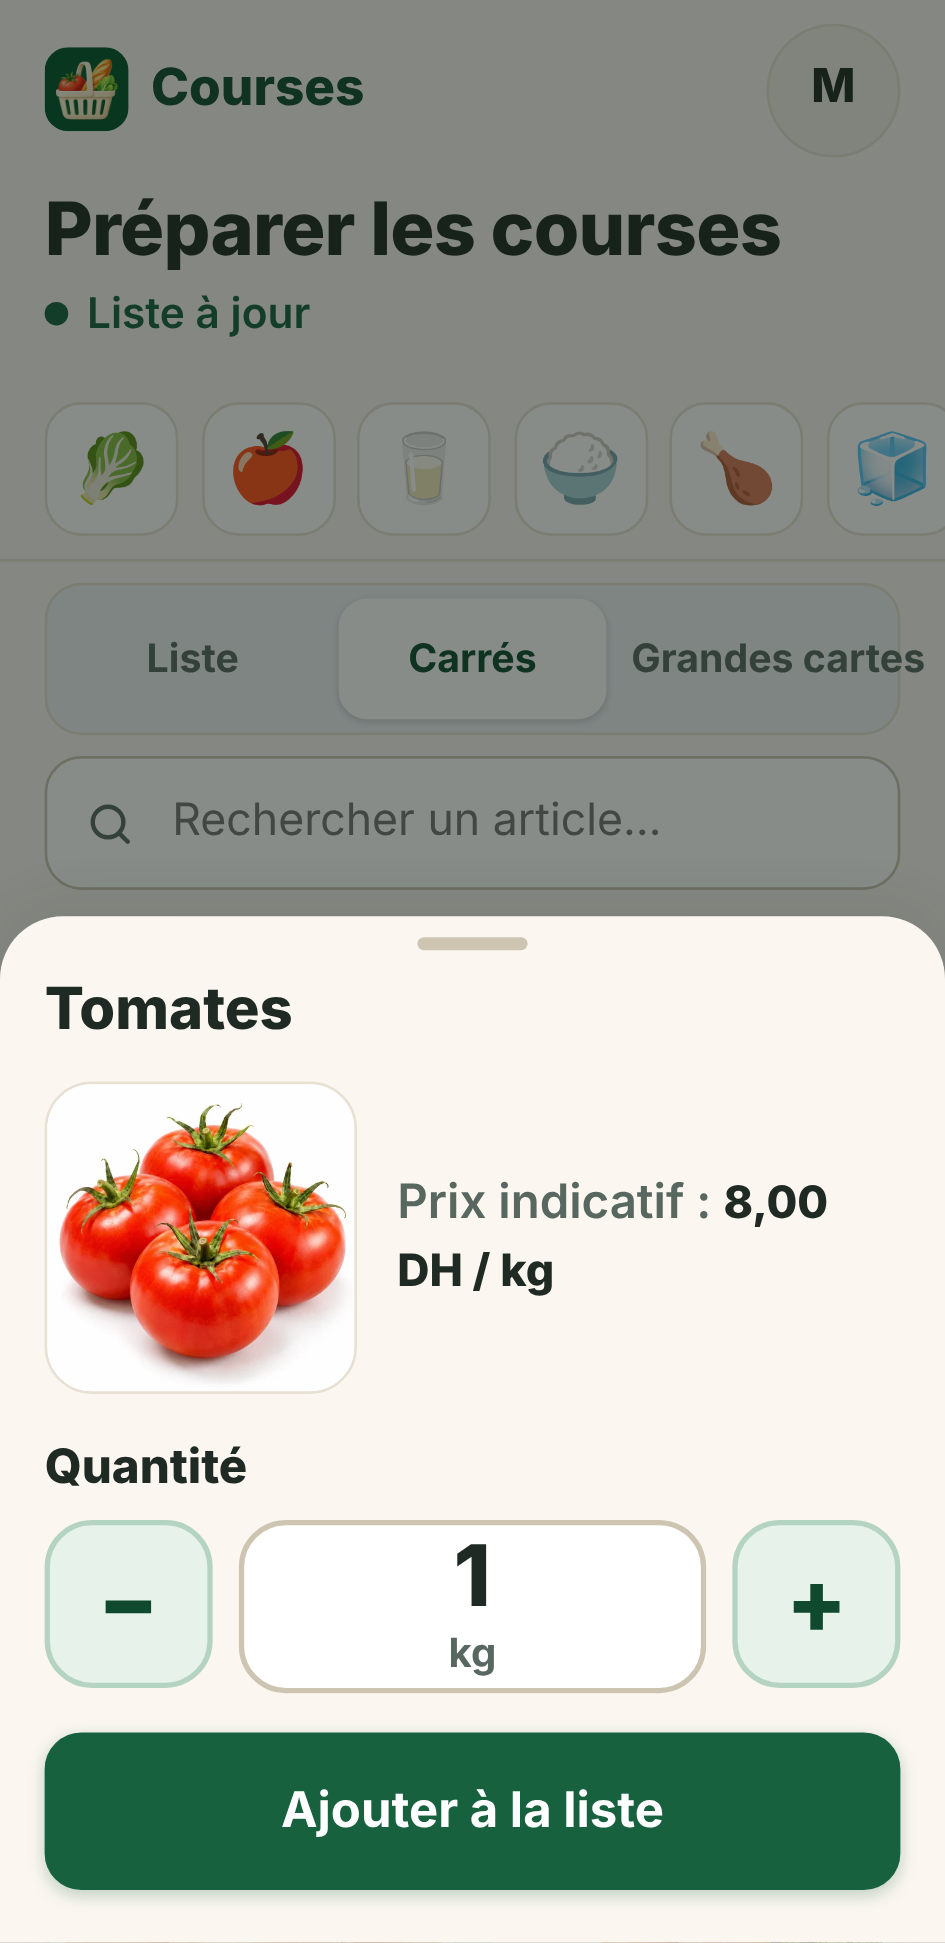
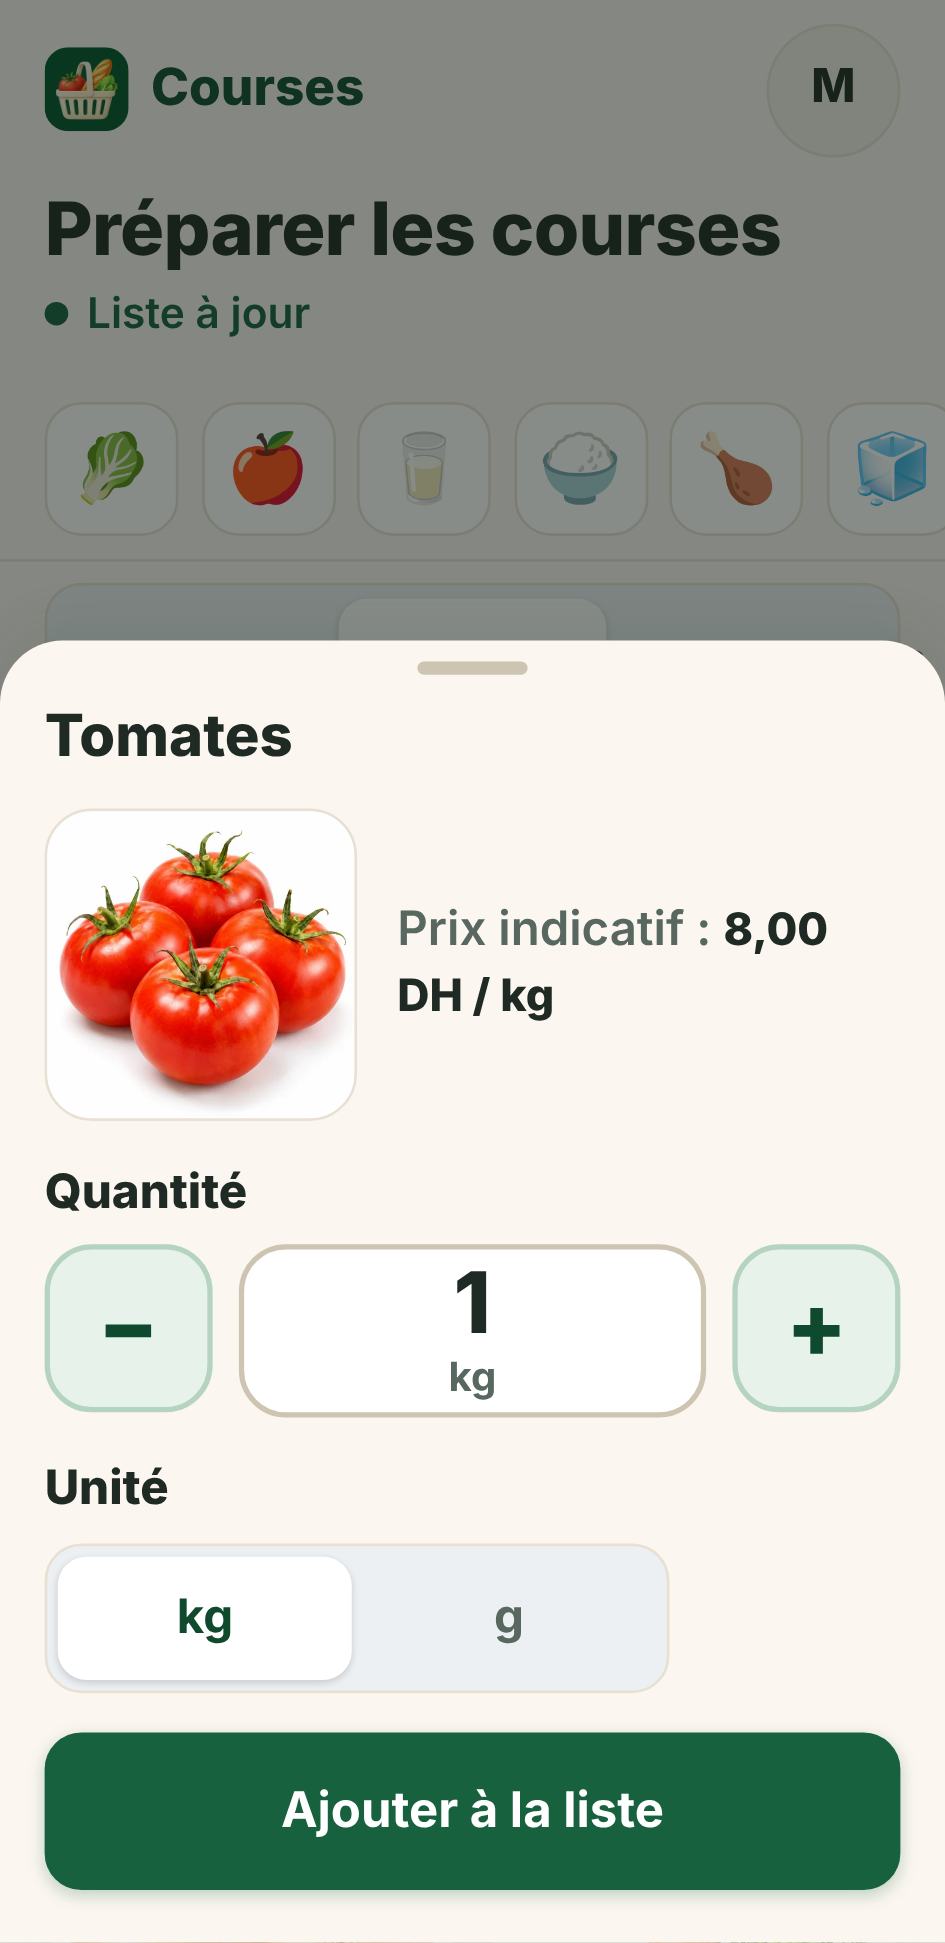
V3 : unités kg/g et L/ml à conversion exacte ; recette sur téléphone avec APK de recette dédiée (identifiant distinct, reliée à l'environnement d'essai)
Claude-Session: https://claude.ai/code/session_01FECw7ZbTKUbi6W7escaKrV

diff --git a/web/src/components/v3/QuantitySheet.tsx b/web/src/components/v3/QuantitySheet.tsx
@@ -25,7 +25,7 @@ interface Props {
   prefs: Prefs;
   emoji?: string;
   onClose(): void;
-  /** Ajoute l'article avec cette quantité (ou met à jour la quantité d'un article déjà choisi). */
+  /** Ajoute l'article avec cette quantité, exprimée dans l'unité DU PRODUIT (ou met à jour un article déjà choisi). */
   onConfirm(qty: number): void;
   onRemove(): void;
   onAgain(): void;
@@ -36,27 +36,68 @@ interface Props {
  * le choix en cours (comme la carte de la V2 : rien n'est envoyé avant « Valider »). L'unité est celle du produit. Le prix est le prix
  * indicatif UNITAIRE, jamais un total par article.
  */
+/** Petite unité de saisie d'un produit au poids (g) ou au volume (ml) ; aucune pour les unités comptées. */
+const SMALL: Partial<Record<Unit, { label: string; plural: string }>> = { kg: { label: "g", plural: "grammes" }, litre: { label: "ml", plural: "millilitres" } };
+const BASE_CHIP: Partial<Record<Unit, string>> = { kg: "kg", litre: "L" };
+
+/**
+ * V3 : panneau inférieur de quantité. La quantité se règle ici (−, +, ou saisie directe) puis « Ajouter à la liste » l'enregistre dans
+ * le choix en cours (comme la carte de la V2 : rien n'est envoyé avant « Valider »). L'unité est celle du produit ; pour un produit au
+ * poids on peut saisir en g (kg ↔ g, ×1000) et pour un volume en ml (L ↔ ml) : la conversion est exacte et la quantité reste stockée
+ * dans l'unité du produit (0,25 kg), donc identique pour la V2. Jamais « pièce » pour un produit au kilo. Le prix est le prix indicatif
+ * UNITAIRE, jamais un total par article.
+ */
 export function QuantitySheet({ product, state, qty, bought, price, prefs, emoji, onClose, onConfirm, onRemove, onAgain }: Props) {
   const selected = state === "saved" || state === "unsaved";
   const unit = product.unit;
-  const [draft, setDraft] = useState(qty ?? 1);
-  const [text, setText] = useState(String(qty ?? 1).replace(".", ","));
+  const small = SMALL[unit];
+  const [draft, setDraft] = useState(qty ?? 1); // toujours dans l'unité du produit
+  const [inSmall, setInSmall] = useState(false); // saisie en g / ml
+  const shownOf = (d: number, sm: boolean) => (sm ? String(Math.round(d * 1000)) : String(d).replace(".", ","));
+  const [text, setText] = useState(shownOf(qty ?? 1, false));
+  const [problem, setProblem] = useState<string | null>(null);
   const [broken, setBroken] = useState(false);
   const fine = prefs.showTotals;
-  const set = (q: number) => {
+  const set = (q: number, sm = inSmall) => {
     setDraft(q);
-    setText(String(q).replace(".", ","));
+    setText(shownOf(q, sm));
+    setProblem(null);
   };
-  useEffect(() => setText(String(draft).replace(".", ",")), [draft]);
-  const minus = stepQty(draft, unit, -1, fine);
-  const plus = stepQty(draft, unit, 1, fine);
-  const commit = () => {
-    const n = Number(text.replace(",", ".").trim());
-    if (!text.trim() || !Number.isFinite(n)) return setText(String(draft).replace(".", ","));
-    set(clampQty(n, unit));
+  const MIN_SMALL = 10; // g ou ml
+  const smallStep = fine ? 50 : 100;
+  const milli = Math.round(draft * 1000);
+  const minus = inSmall ? (milli - smallStep >= MIN_SMALL ? (milli - smallStep) / 1000 : null) : stepQty(draft, unit, -1, fine);
+  const plus = inSmall ? (milli + smallStep <= 999000 ? (milli + smallStep) / 1000 : null) : stepQty(draft, unit, 1, fine);
+  const commit = (): number | null => {
+    const raw = text.trim();
+    const n = Number(raw.replace(",", "."));
+    if (!raw || !Number.isFinite(n)) {
+      setText(shownOf(draft, inSmall));
+      setProblem(null);
+      return draft; // saisie illisible : retour à la valeur en cours
+    }
+    if (inSmall) {
+      if (!Number.isInteger(n) || n < MIN_SMALL || n > 999000) {
+        setProblem(`Entrez un nombre entier de ${small!.plural}, au moins ${MIN_SMALL}.`);
+        return null;
+      }
+      set(n / 1000);
+      return n / 1000;
+    }
+    const q = clampQty(n, unit);
+    set(q);
+    return q;
   };
-  const noteUnit = unit === "kg" ? "kilogrammes" : unitPlural(unit);
-  const label = (draft > 1 && unit !== "kg") || (unit === "litre" && draft >= 2) ? unitPlural(unit) : unitLabel(unit);
+  const chooseSmall = (sm: boolean) => {
+    if (sm === inSmall) return;
+    const v = commit();
+    if (v === null) return; // une saisie invalide empêche de changer d'unité : rien n'est converti à tort
+    setInSmall(sm);
+    setText(shownOf(v, sm));
+    setProblem(null);
+  };
+  const shownUnit = inSmall ? small!.label : (draft > 1 && unit !== "kg") || (unit === "litre" && draft >= 2) ? unitPlural(unit) : unitLabel(unit);
+  const noteUnit = inSmall ? small!.plural : unit === "kg" ? "kilogrammes" : unitPlural(unit);
   return (
     <Dialog title={product.name} onClose={onClose}>
       <div className="v3sheet" data-testid="qty-sheet">
@@ -83,27 +124,38 @@ export function QuantitySheet({ product, state, qty, bought, price, prefs, emoji
                 <button type="button" className="v3qty__btn" aria-label={`Diminuer la quantité de ${product.name}`} disabled={minus === null} data-testid="sheet-minus" onClick={() => minus !== null && set(minus)}>−</button>
                 <span className="v3qty__val">
                   <input
-                    inputMode={isFractional(unit) ? "decimal" : "numeric"}
+                    inputMode={inSmall ? "numeric" : isFractional(unit) ? "decimal" : "numeric"}
                     aria-label={`Quantité de ${product.name}, en ${noteUnit}`}
+                    aria-invalid={problem ? true : undefined}
                     data-testid="sheet-input"
                     value={text}
                     onFocus={(e) => e.currentTarget.select()}
-                    onChange={(e) => setText(e.target.value)}
-                    onBlur={commit}
+                    onChange={(e) => { setText(e.target.value); setProblem(null); }}
+                    onBlur={() => void commit()}
                     onKeyDown={(e) => e.key === "Enter" && (e.currentTarget.blur(), e.preventDefault())}
                   />
-                  <small data-testid="sheet-unit">{label}</small>
+                  <small data-testid="sheet-unit">{shownUnit}</small>
                 </span>
                 <button type="button" className="v3qty__btn" aria-label={`Augmenter la quantité de ${product.name}`} disabled={plus === null} data-testid="sheet-plus" onClick={() => plus !== null && set(plus)}>+</button>
               </div>
+              {problem && <small className="error" role="alert" data-testid="sheet-problem">{problem}</small>}
             </div>
+            {small && (
+              <div className="v3units" role="group" aria-label="Unité de saisie">
+                <span className="v3qty__label">Unité</span>
+                <div className="seg v3units__seg">
+                  <button type="button" className={!inSmall ? "on" : ""} aria-pressed={!inSmall} data-testid="sheet-unit-base" onClick={() => chooseSmall(false)}>{BASE_CHIP[unit]}</button>
+                  <button type="button" className={inSmall ? "on" : ""} aria-pressed={inSmall} data-testid="sheet-unit-small" onClick={() => chooseSmall(true)}>{small.label}</button>
+                </div>
+              </div>
+            )}
             <button
               className="btn btn--primary btn--big"
               data-testid="sheet-confirm"
-              disabled={selected && draft === qty}
+              disabled={!!problem || (selected && Math.round(draft * 1000) === Math.round((qty ?? 0) * 1000))}
               onClick={() => {
-                const n = Number(text.replace(",", ".").trim());
-                onConfirm(Number.isFinite(n) && text.trim() ? clampQty(n, unit) : draft); // une saisie encore non validée est prise en compte
+                const v = commit(); // une saisie encore non validée est prise en compte (ou refusée avec son message)
+                if (v !== null) onConfirm(v);
               }}
             >
               {selected ? "Mettre à jour la quantité" : "Ajouter à la liste"}

diff --git a/e2e/tests/v3-selection.spec.ts b/e2e/tests/v3-selection.spec.ts
@@ -62,6 +62,13 @@ test("activation V3 : désactivée par défaut, réservée à l'administrateur p
   // le personnel de cet appareil voit la V3 (test sur le téléphone de l'administrateur) ; coupure immédiate
   await uiLogin(page, f);
   await expect(page.getByTestId("v3-selection")).toBeVisible();
+  // le personnel ne peut pas activer l'aperçu : ni réglage ni option dans son profil (seul l'administrateur principal le peut)
+  await page.getByTestId("avatar").click();
+  await expect(page.getByRole("dialog", { name: "Mon profil" })).toBeVisible();
+  await expect(page.getByTestId("v3-toggle")).toHaveCount(0);
+  await expect(page.getByText("Aperçu V3")).toHaveCount(0);
+  await page.getByRole("dialog", { name: "Mon profil" }).getByRole("button", { name: "Fermer" }).click();
+  await expect(page.getByTestId("tab-settings")).toHaveCount(0);
   await page.getByTestId("v3-to-v2").click();
   await expect(page.getByTestId("v3-selection")).toHaveCount(0);
   await expect(page.getByTestId("view-all")).toBeVisible(); // V2 intacte
@@ -215,6 +222,73 @@ for (const s of SIZES) {
       await expect(tom).toHaveAttribute("data-state", "unsaved");
       expect(await noOverflow(page)).toBe(true);
       await ctx.close();
+    });
+
+    test("unités : kg/g et L/ml avec conversion exacte ; jamais « pièce » pour un produit au kilo ; compatible V2", async ({ browser, playwright, baseURL }) => {
+      const f = await newFamily(playwright, baseURL!);
+      await openList(f);
+      const cat = Object.fromEntries((await (await f.adil.get("/api/catalog")).json()).categories.flatMap((c: any) => c.products).map((p: any) => [p.name, p]));
+      const litre = "Huile d'essai";
+      expect((await f.adil.post("/api/products", { data: { name: litre, category: "epicerie", unit: "litre" } })).status()).toBe(201);
+      f.products[litre] = (await (await f.adil.get("/api/catalog")).json()).categories.flatMap((c: any) => c.products).find((p: any) => p.name === litre).id;
+      const counted = Object.keys(cat).find((n) => ["piece", "paquet", "bouteille", "brique", "pot", "boite"].includes(cat[n].unit))!;
+      const { ctx, page } = await phone(browser, baseURL, s, true);
+      await uiLogin(page, f);
+      const tom = page.getByTestId(`v3-${f.products["Tomates"]}`);
+      await tom.click();
+      // l'unité du produit par défaut ; kg et g seulement (pas de « pièce »)
+      await expect(page.getByTestId("sheet-unit-base")).toHaveText("kg");
+      await expect(page.getByTestId("sheet-unit-small")).toHaveText("g");
+      await expect(page.getByRole("dialog")).not.toContainText(/pièce/i);
+      await page.screenshot({ path: `${OUT}/panneau-unites-${s.name}.png` });
+      await page.getByTestId("sheet-unit-small").click();
+      await expect(page.getByTestId("sheet-input")).toHaveValue("1000"); // 1 kg = 1000 g
+      await expect(page.getByTestId("sheet-unit")).toHaveText("g");
+      await page.getByTestId("sheet-plus").click();
+      await expect(page.getByTestId("sheet-input")).toHaveValue("1100");
+      await page.getByTestId("sheet-input").fill("250");
+      await page.getByTestId("sheet-input").blur();
+      await page.getByTestId("sheet-unit-base").click();
+      await expect(page.getByTestId("sheet-input")).toHaveValue("0,25"); // 250 g = 0,25 kg
+      await expect(page.getByTestId("sheet-unit")).toHaveText("kg");
+      // saisie invalide en g : message, rien n'est converti ni enregistré
+      await page.getByTestId("sheet-unit-small").click();
+      await page.getByTestId("sheet-input").fill("12,5");
+      await page.getByTestId("sheet-input").blur();
+      await expect(page.getByTestId("sheet-problem")).toContainText("nombre entier de grammes");
+      await expect(page.getByTestId("sheet-confirm")).toBeDisabled();
+      await page.getByTestId("sheet-unit-base").click(); // changer d'unité ne convertit pas une saisie invalide
+      await expect(page.getByTestId("sheet-unit-small")).toHaveAttribute("aria-pressed", "true");
+      await page.getByTestId("sheet-input").fill("125"); // 125 g : exactement 0,125 kg (3 décimales gardées par le serveur)
+      await page.getByTestId("sheet-input").blur();
+      await expect(page.getByTestId("sheet-problem")).toHaveCount(0);
+      await page.screenshot({ path: `${OUT}/panneau-grammes-${s.name}.png` });
+      await page.getByTestId("sheet-confirm").click();
+      await expect(page.getByTestId(`v3qty-${f.products["Tomates"]}`)).toContainText("0,125 kg");
+      await page.getByTestId("validate").click();
+      await expect.poll(async () => ((await activeList(f)).items as any[]).map((i) => Number(i.quantity))).toEqual([0.125]);
+      expect(((await activeList(f)).items[0]).unit).toBe("kg"); // stocké dans l'unité du produit
+      // la V2 lit la même quantité
+      await page.getByTestId("v3-to-v2").click();
+      await expect(page.getByTestId(`qty-input-${f.products["Tomates"]}`)).toHaveValue("0,125");
+      await ctx.close();
+      // volume : L / ml ; unités comptées : aucune petite unité
+      const c2 = await phone(browser, baseURL, s, true);
+      await uiLogin(c2.page, f);
+      await c2.page.getByTestId(`v3-${f.products[litre]}`).click();
+      await expect(c2.page.getByTestId("sheet-unit-base")).toHaveText("L");
+      await expect(c2.page.getByTestId("sheet-unit-small")).toHaveText("ml");
+      await c2.page.getByTestId("sheet-unit-small").click();
+      await c2.page.getByTestId("sheet-input").fill("750");
+      await c2.page.getByTestId("sheet-input").blur();
+      await c2.page.getByTestId("sheet-unit-base").click();
+      await expect(c2.page.getByTestId("sheet-input")).toHaveValue("0,75");
+      await c2.page.getByTestId("sheet-confirm").click();
+      await expect(c2.page.getByTestId(`v3qty-${f.products[litre]}`)).toContainText("0,75");
+      await c2.page.getByTestId(`v3-${f.products[counted]}`).click();
+      await expect(c2.page.getByTestId("sheet-unit-small")).toHaveCount(0);
+      await expect(c2.page.getByTestId("sheet-unit-base")).toHaveCount(0);
+      await c2.ctx.close();
     });
 
     test("unités adaptées au produit et sans liste en cours", async ({ browser, playwright, baseURL }) => {

diff --git a/web/src/sync/engine.ts b/web/src/sync/engine.ts
@@ -1,7 +1,7 @@
 import { api as realApi, ApiError, NetworkError } from "../api";
 import { AppDbClass, type AppDb, type OrphanRow } from "../db";
 import type { Batch, Catalog, ListView, Me, Op, OpResult, Toggles } from "../types";
-import { clampQty, fmtQty } from "../units";
+import { clampQty, clampQtyFine, fmtQty } from "../units";
 import { buildOps, cancelQueuedAdd, editQueuedAdd, interpretResults, isPurchased, normalizeToggles, openItem, planBasket, projectedPresence, requestAgainToggle, setQuantityToggle, toggleProduct } from "./logic";
 import type { BasketItem, BasketMode, BasketReport } from "./logic";
 
@@ -615,10 +615,10 @@ export class Engine {
   }
 
   /** Sets the wanted quantity of a selected product. Never adds a second line; never touches other articles. */
-  async setQuantity(productId: string, wanted: number): Promise<void> {
+  async setQuantity(productId: string, wanted: number, exact = false): Promise<void> {
     const { list, batches, toggles } = this.s;
     if (!list || list.status !== "active") return;
-    const qty = clampQty(wanted, this.unitFor(productId));
+    const qty = exact ? clampQtyFine(wanted, this.unitFor(productId)) : clampQty(wanted, this.unitFor(productId));
     const present = projectedPresence(list, batches, productId);
     if (!(toggles[productId]?.want ?? present)) return; // the counter only exists on a selected card
     if (present && !openItem(list, productId) && !toggles[productId]) {

diff --git a/web/src/units.ts b/web/src/units.ts
@@ -25,6 +25,16 @@ export function clampQty(q: number, unit: Unit): number {
   return Math.min(MAX_QTY, Math.max(minOf(unit), v));
 }
 
+/**
+ * V3, saisie en grammes ou en millilitres : conversion EXACTE vers le kilo ou le litre (le serveur garde 3 décimales : 125 g = 0,125 kg).
+ * Mêmes limites que clampQty pour les unités comptées ; pour le poids et le volume, au plus 3 décimales et au moins 10 g (10 ml).
+ */
+export function clampQtyFine(q: number, unit: Unit): number {
+  if (!isFractional(unit)) return clampQty(q, unit);
+  if (!Number.isFinite(q)) return 0.01;
+  return Math.min(MAX_QTY, Math.max(0.01, Math.round(q * 1000) / 1000));
+}
+
 /** The quantity after one tap on [+] (dir 1) or [−] (dir -1); null when that tap is not allowed (the button is disabled). */
 export function stepQty(q: number, unit: Unit, dir: 1 | -1, fine = false): number | null {
   const next = round(q + dir * stepOf(unit, fine));

diff --git a/web/vite.config.ts b/web/vite.config.ts
@@ -46,7 +46,7 @@ export default defineConfig({
         globIgnores: ["**/confidentialite.html", "**/suppression-compte.html"],
         importScripts: ["push-sw.js"], // notifications téléphone (push, toucher)
         navigateFallback: "/index.html",
-        navigateFallbackDenylist: [/^\/api\//, /^\/push-sw\.js$/, /^\/\.well-known\//, /^\/version\.json$/, /^\/confidentialite(\.html)?$/, /^\/suppression-compte(\.html)?$/],
+        navigateFallbackDenylist: [/^\/api\//, /^\/push-sw\.js$/, /^\/\.well-known\//, /^\/version\.json$/, /\.apk$/, /^\/confidentialite(\.html)?$/, /^\/suppression-compte(\.html)?$/],
         // Photos are immutable (content-addressed): cache-first, kept for offline use.
         runtimeCaching: [
           {

diff --git a/web/src/components/v3/SelectionV3.tsx b/web/src/components/v3/SelectionV3.tsx
@@ -118,7 +118,7 @@ export function SelectionV3({ engine, s, groups, searching, query, setQuery, sta
     close();
     if (st !== "saved" && st !== "unsaved") await engine.toggle(p.id);
     const cur = effectiveQty(engine.getState().list, engine.getState().batches, engine.getState().toggles, p.id);
-    if (cur !== undefined && cur !== qty) await engine.setQuantity(p.id, qty);
+    if (cur !== undefined && cur !== qty) await engine.setQuantity(p.id, qty, true); // exacte : 125 g = 0,125 kg
     say(st === "saved" || st === "unsaved" ? `Quantité de ${p.name} mise à jour` : `${p.name} ajouté à la sélection`);
   };
 

diff --git a/web/src/styles.css b/web/src/styles.css
@@ -722,3 +722,6 @@ html[data-ui="compact"] .row--line .menubtn { min-width: 2.25rem; padding: 0 0.3
 .v3qty__val small { color: var(--muted); font-weight: 700; font-size: 0.9rem; }
 html[data-ui="compact"] .v3tile--list .v3tile__photo { width: 4.5rem; height: 4.5rem; }
 .v3modes button { white-space: nowrap; font-size: 0.88rem; padding: 0.2rem 0.3rem; }
+.v3units { display: grid; gap: 0.4rem; }
+.v3units__seg { max-width: 14rem; }
+.v3units__seg button { min-height: 2.75rem; }
